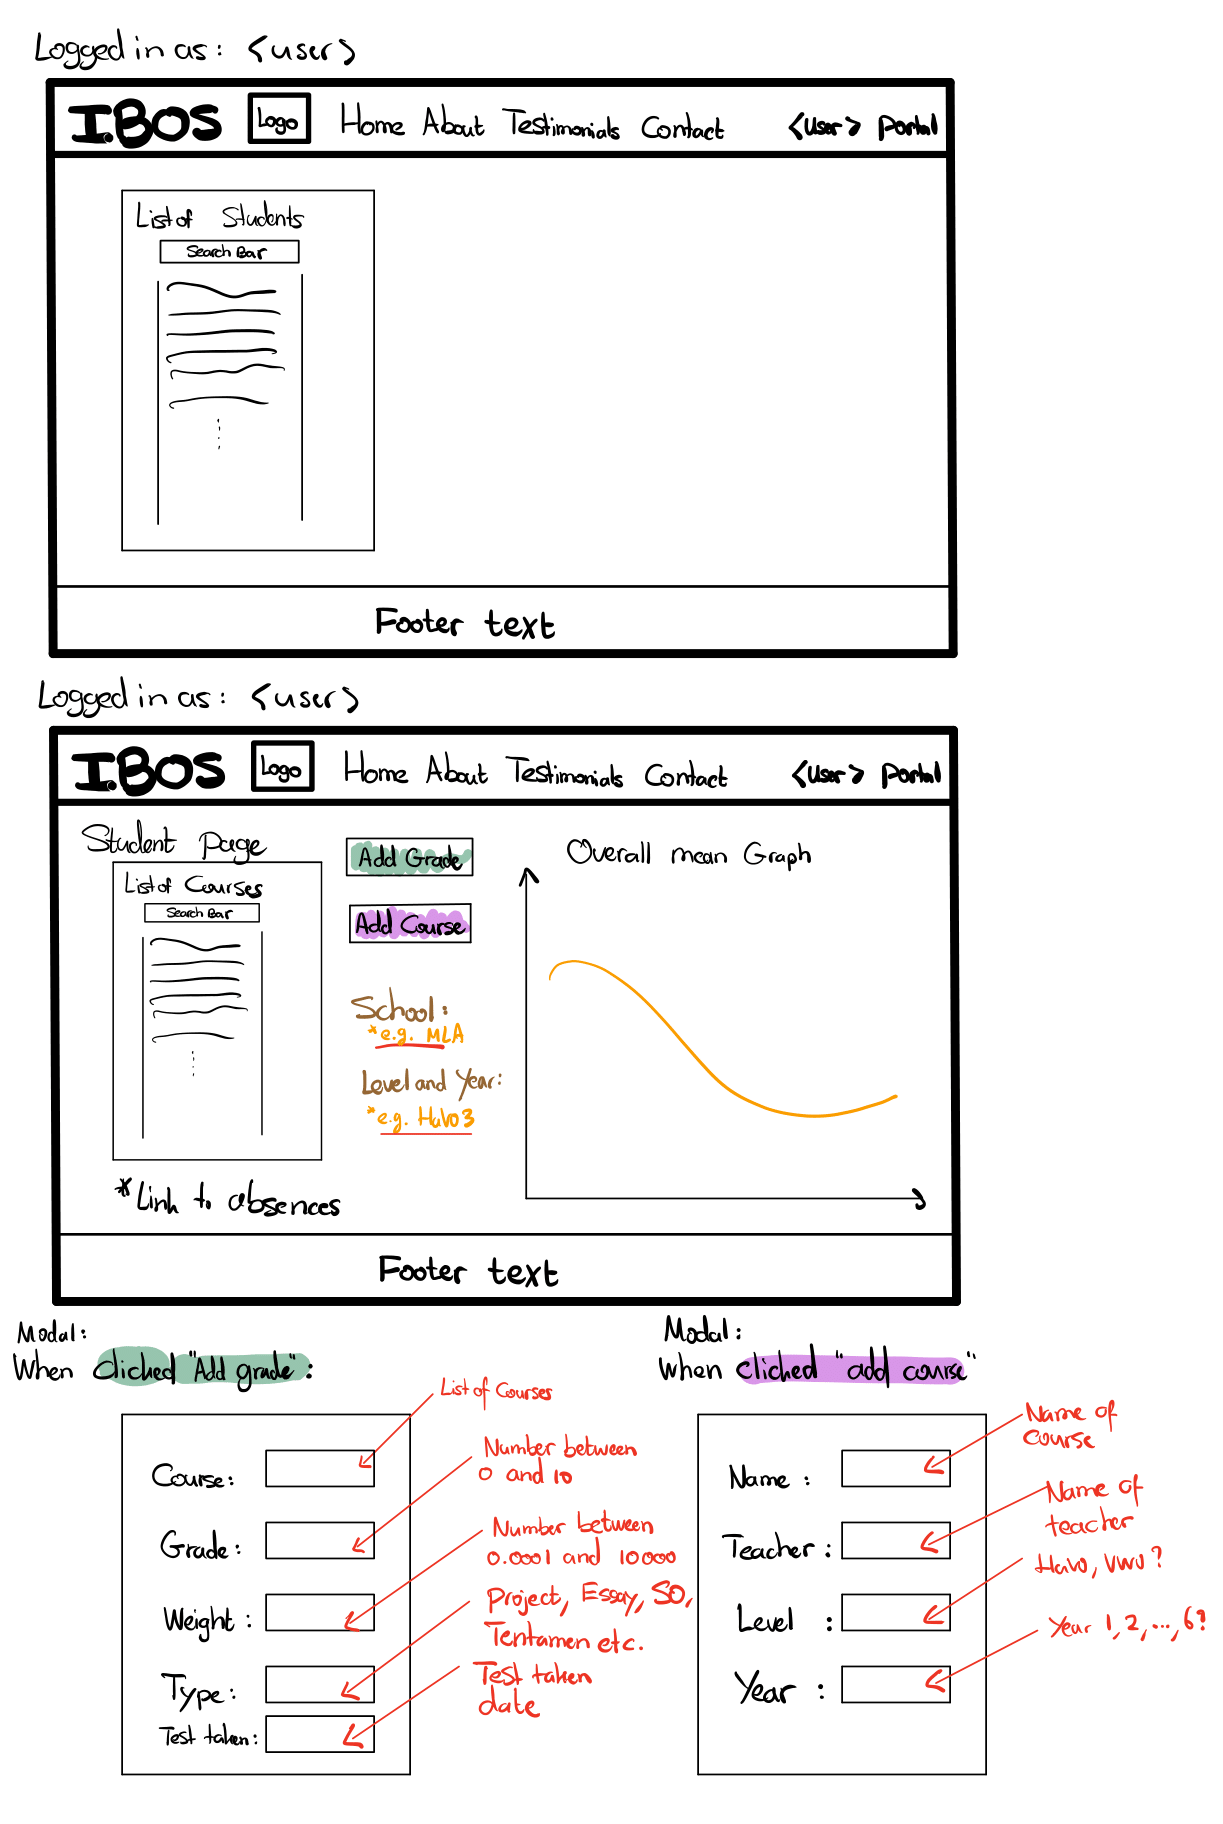
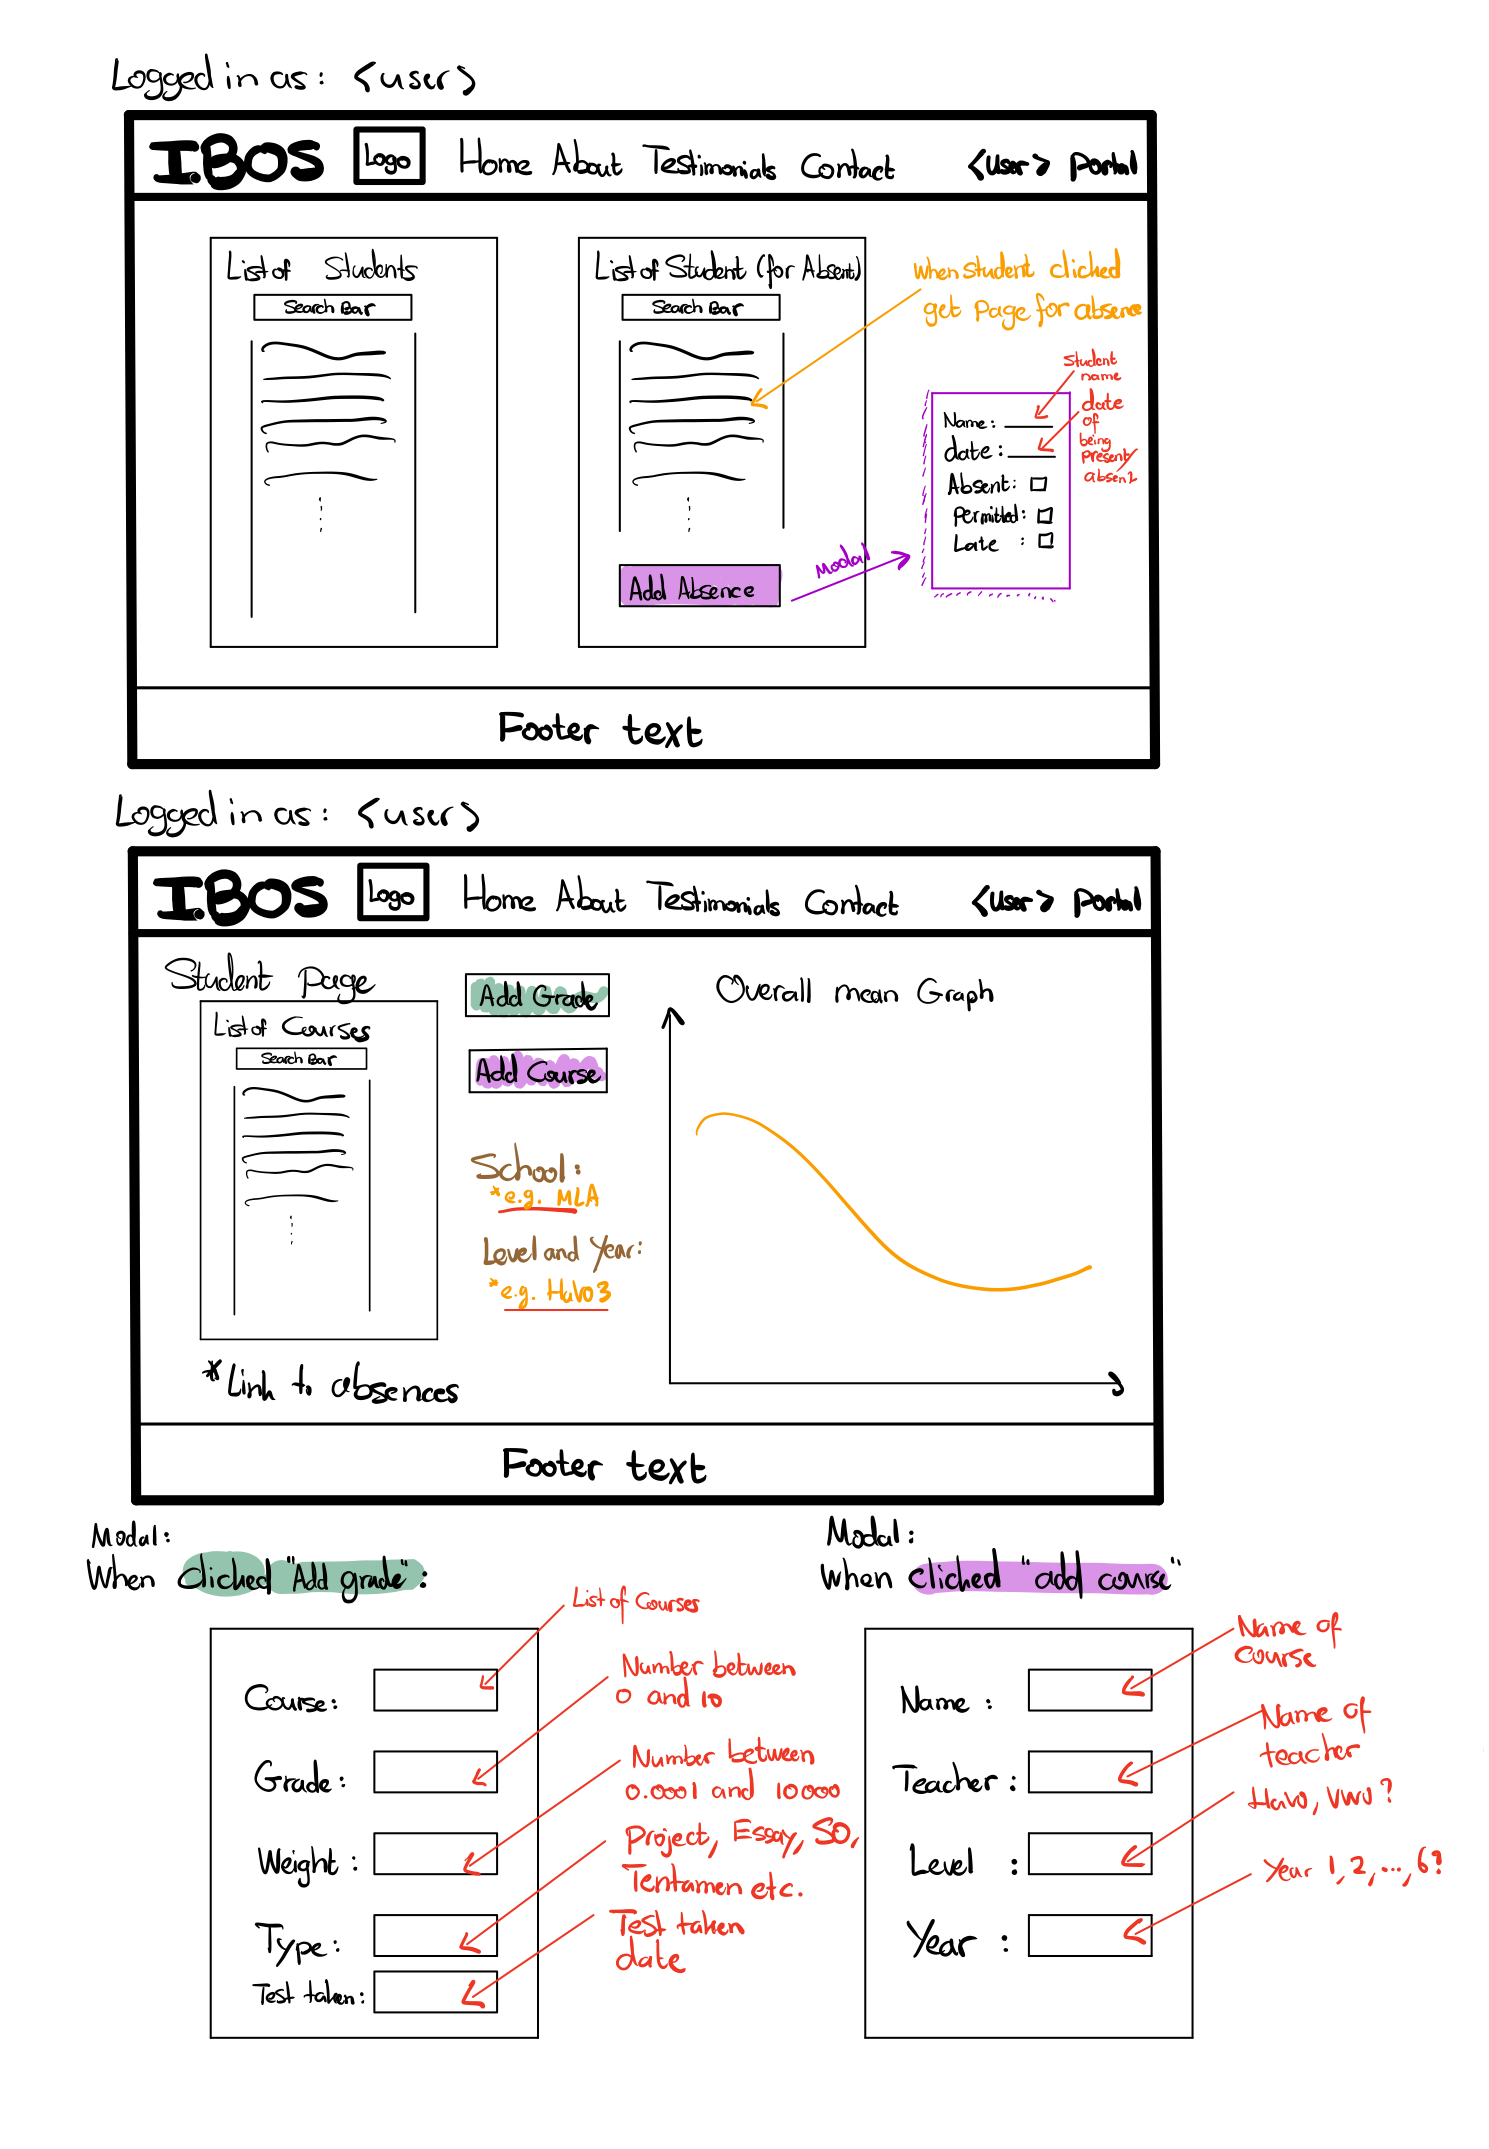
Added the DESIGN.md document.

diff --git a/DESIGN.md b/DESIGN.md
@@ -1,0 +1,55 @@
+# Design of the Student Tracker application
+
+To understand to context in which this document was written, we first the reader to README.md.
+
+In this document we elucidate on which features of this application are going to be implemented to make it a minimum viable product and we will also expand on the user interface sketches as given in the document README.md. Also, the preliminary database design is going to be treated after which we conclude with a list of (external) data sources / APIs that we might want to include in this application. 
+
+## Main Features 
+The first main feature of this application is that students can add / delete / update grades. These grades will be summarized with the help of graphs (per course). 
+The second feature of this application is that the tutors can keep track of the student absences.
+
+The properties of the grades will be discussed in the database design.
+
+### Extra Features
+If time permits, we may want to add 
+- Blog Posts such that tutors and administrators can leave messages on the application for the students / parents (e.g. vacation days etc.).
+- Implementation of more grading systems.
+- Implementation of the difference between a regular test and school / central exam test.
+- Implementation of a multi-language website (English and Dutch).
+- Implementation of a calendar system, to see which students correspond with which times.
+
+These (extra) features were already listed in the README.md document. We have not included these features in the preliminary database design. 
+
+## User Interface
+
+When a user first visits the web application, the user will be met with a home page. Depending on who is logged in, the home page may have different URL's in the navigation bar as seen by the sketches down below:
+
+![Sketch of Homepage](doc/img/sketch-home-page-1.png)
+![Sketch of Homepage](doc/img/sketch-home-page-2.png)
+
+If time permits, we may add a contact page with a contact form and an embedded google map as you can see down below:
+![Sketch of Contact](doc/img/sketch-home-page-3.png)
+
+If you are logged in (or have just signed up), you have access to a portal. The administrators and tutors can see the list of students, while a student can view only their own page. Parents can also see a list of students, but that list is limited to their own children.
+
+![Sketch of Portal](doc/img/sketch-portal-1.png)
+![Sketch of Portal](doc/img/sketch-portal-2.png)
+
+All the other features are self-evident from the above sketches (like adding grades via modals etc.). 
+
+## Database Design 
+The preliminary design (UML diagram) of the database can be found below. In this diagram FK is shorthand for "Foreign Key" and PK is shorthand for "Primary Key".
+![UML-Diagram database design](doc/img/uml-diagram-1.png)
+
+## List of APIs
+For the minimum viable product, in principle, there is no need to use any external data sources or APIs. However, there exists a Magister API that may be compatible in such a way that all grades could be automatically entered (provided that the student has authenticated the transmission between Magister and this application). 
+The problem is that the Magister API documentation does not provide sufficient information regarding the implementation with Python as it seems to lean more to an implementation with PHP, which we will not use in this application. 
+
+For the demonstration of this product, it may be handy to compose a file that automatically imports dummy students / parents and grades / absences into our database. 
+
+Lastly, as we have said before, if time would permit it, we would like to also embed a google map in the contact page. For this, the Google Maps API would be needed. 
+
+
+
+
+
